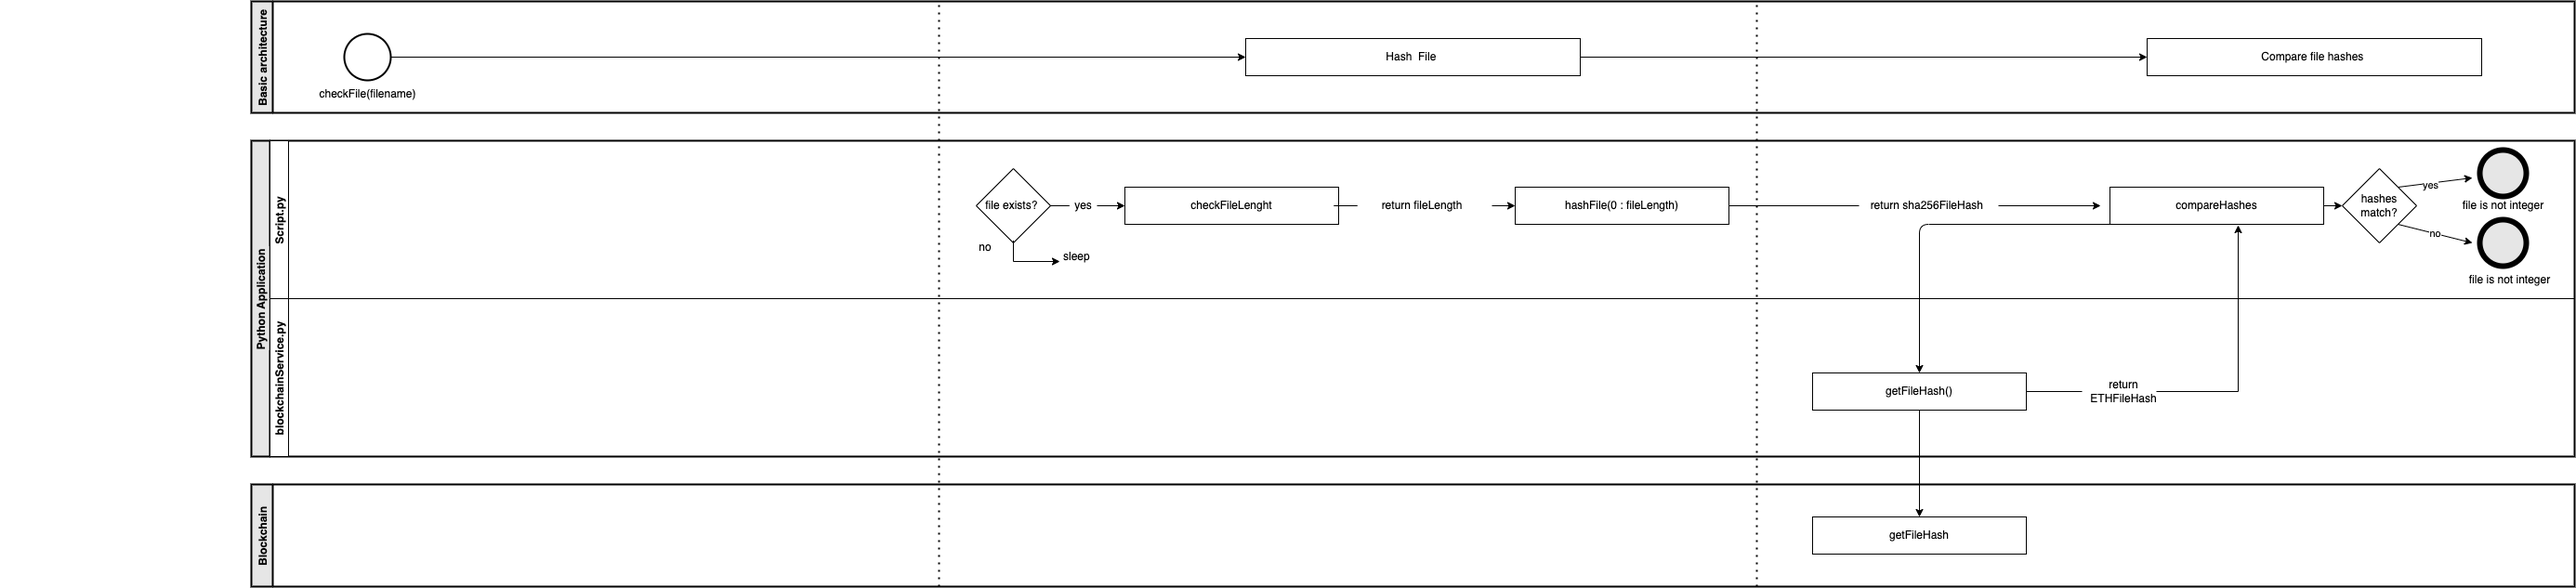
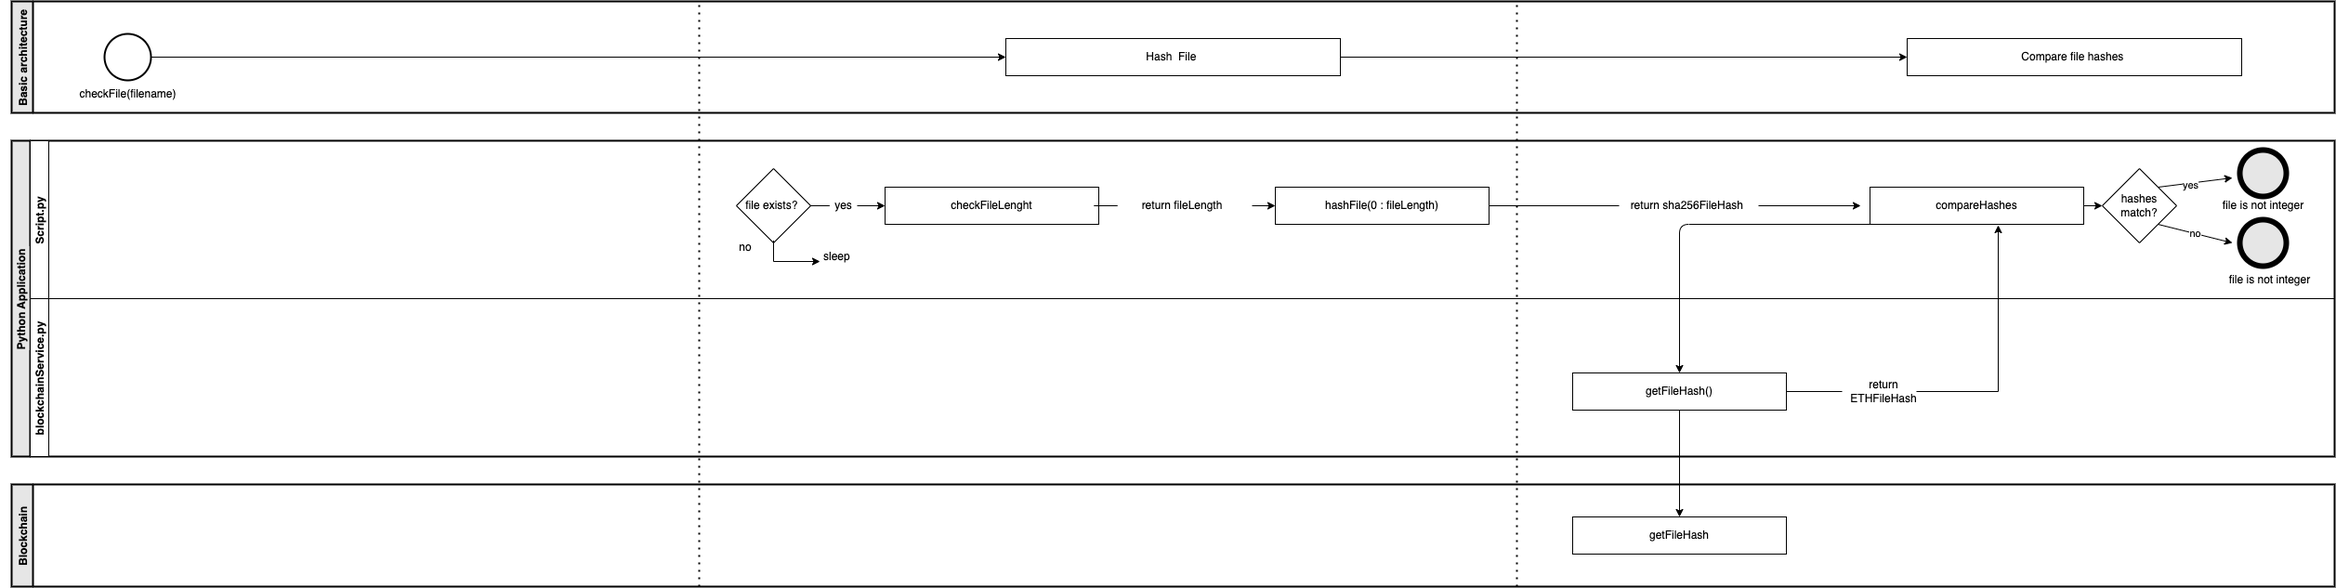
.png backround non transparent

diff --git a/README.md b/README.md
@@ -21,7 +21,7 @@ The logic and interaction pattern of the two functions is described in the next 
 
 ## verifyFile
 This function hashes the file and writes the corresponding file hash to the ETH blockchain.
-![verifyFile function](documentation/verifyFile/verifyFile_architecture.drawio.png "verifyFile function")
+![verifyFile function](documentation/verifyFile/verifyFile_architecture.png "verifyFile function")
 
 ## checkFile
 This function hashes the file and compares it to the hash stored in the ETH blockchain.
